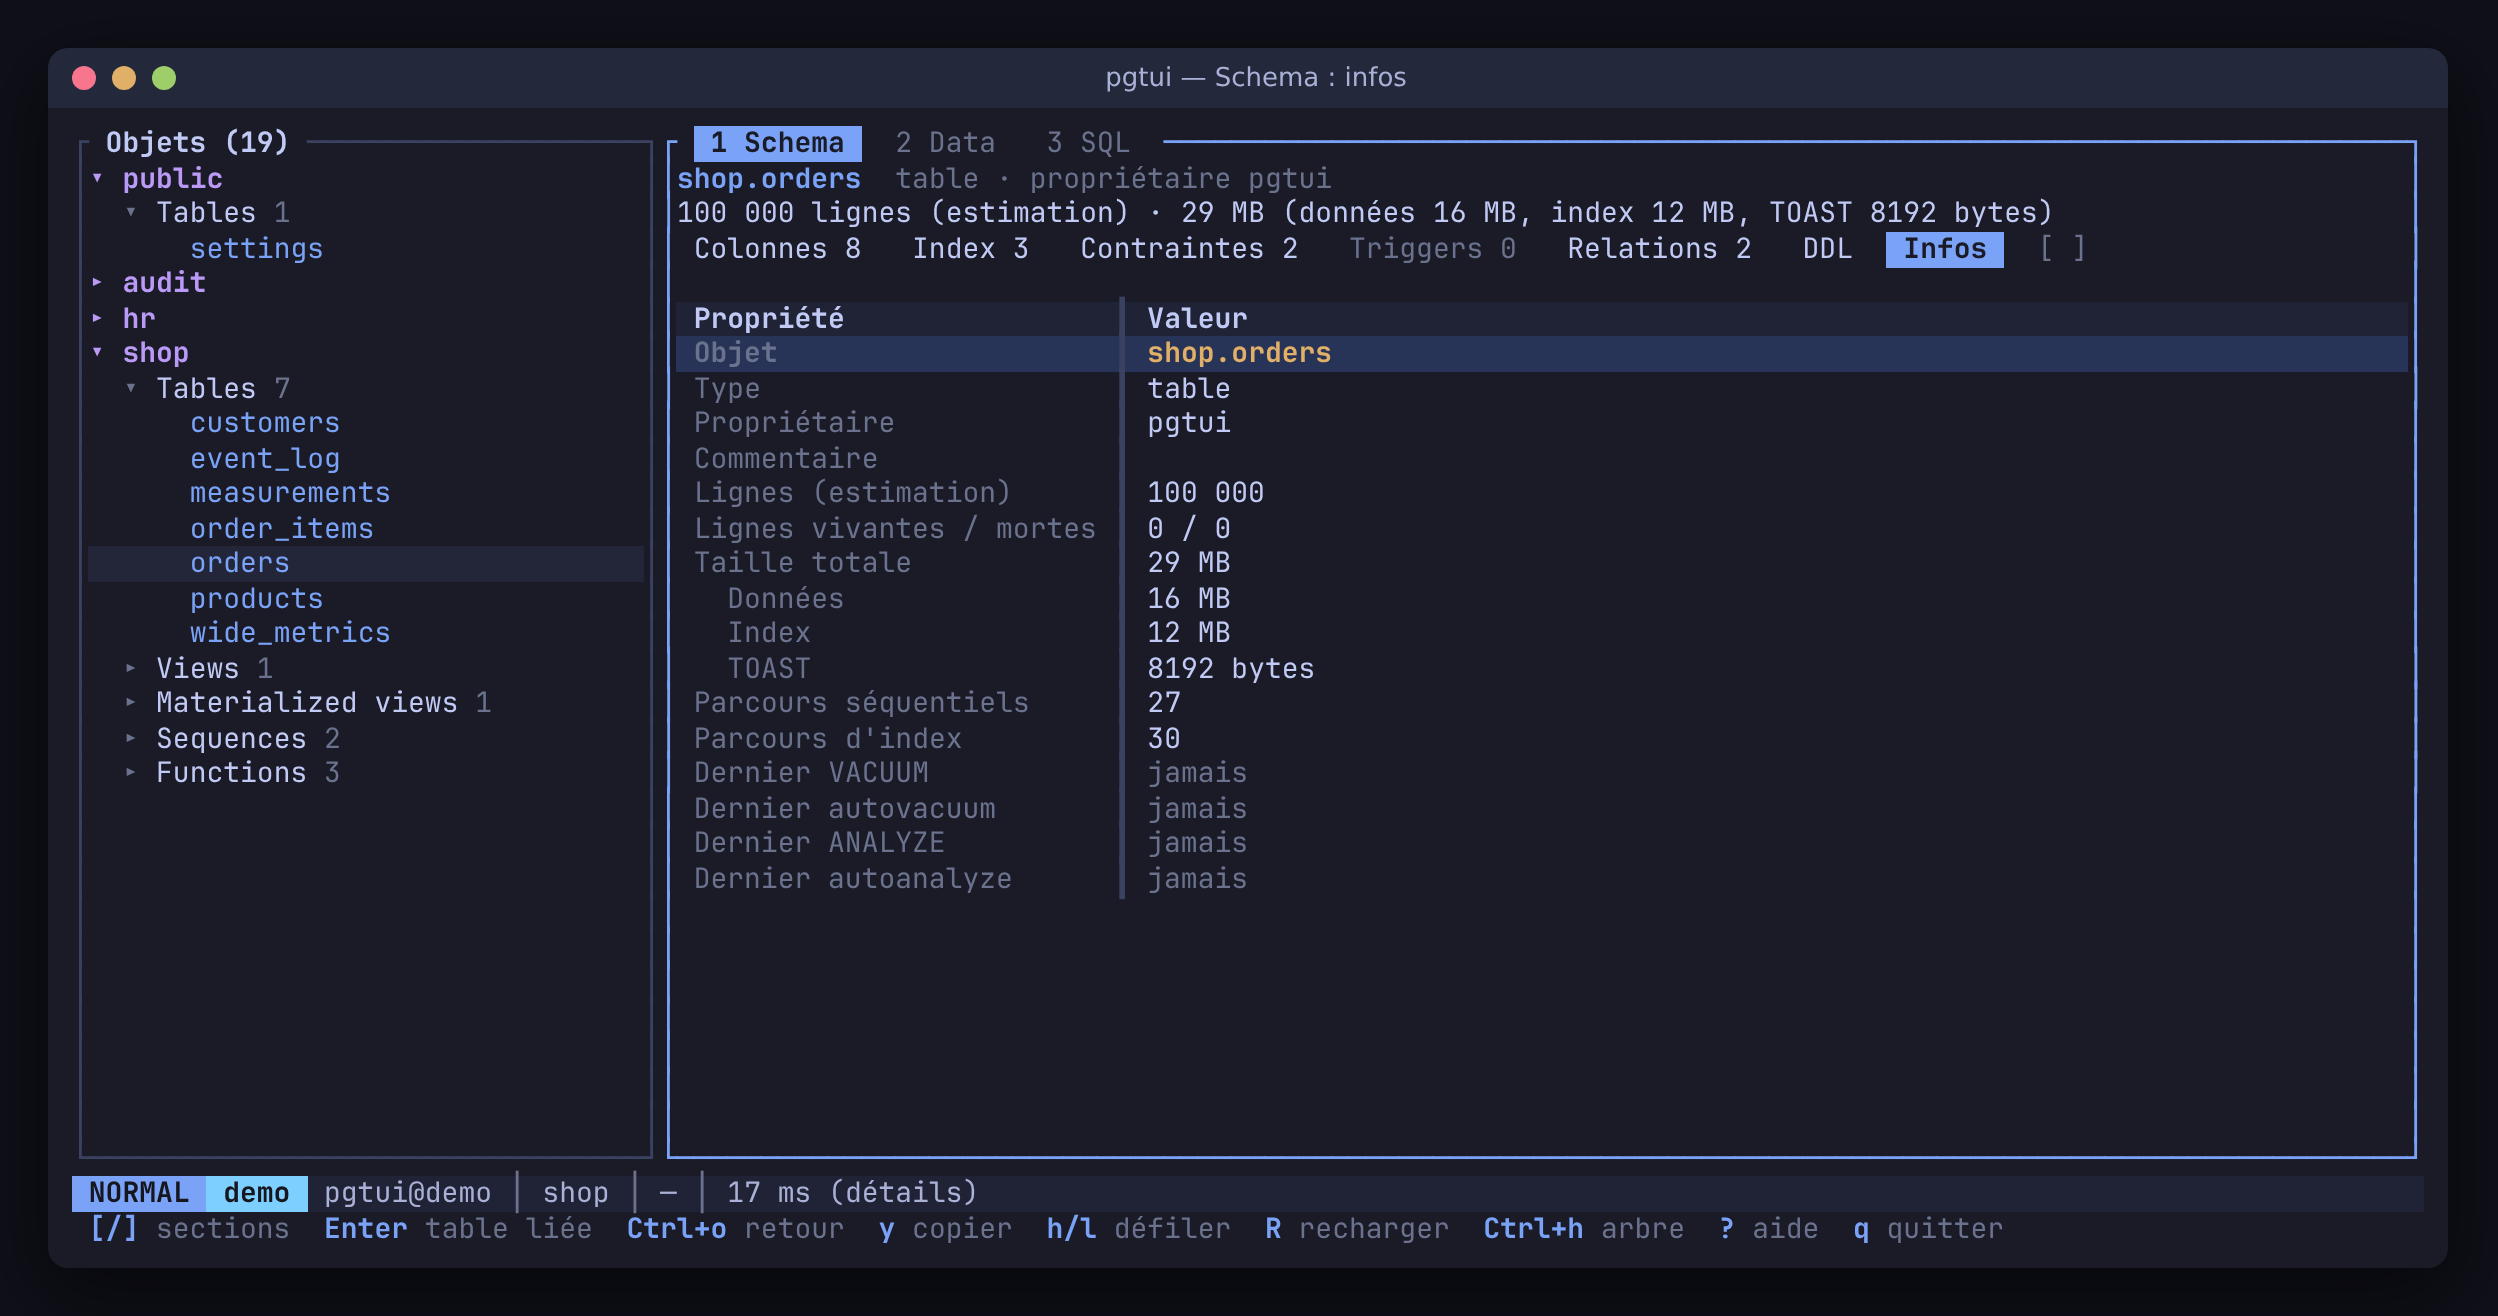
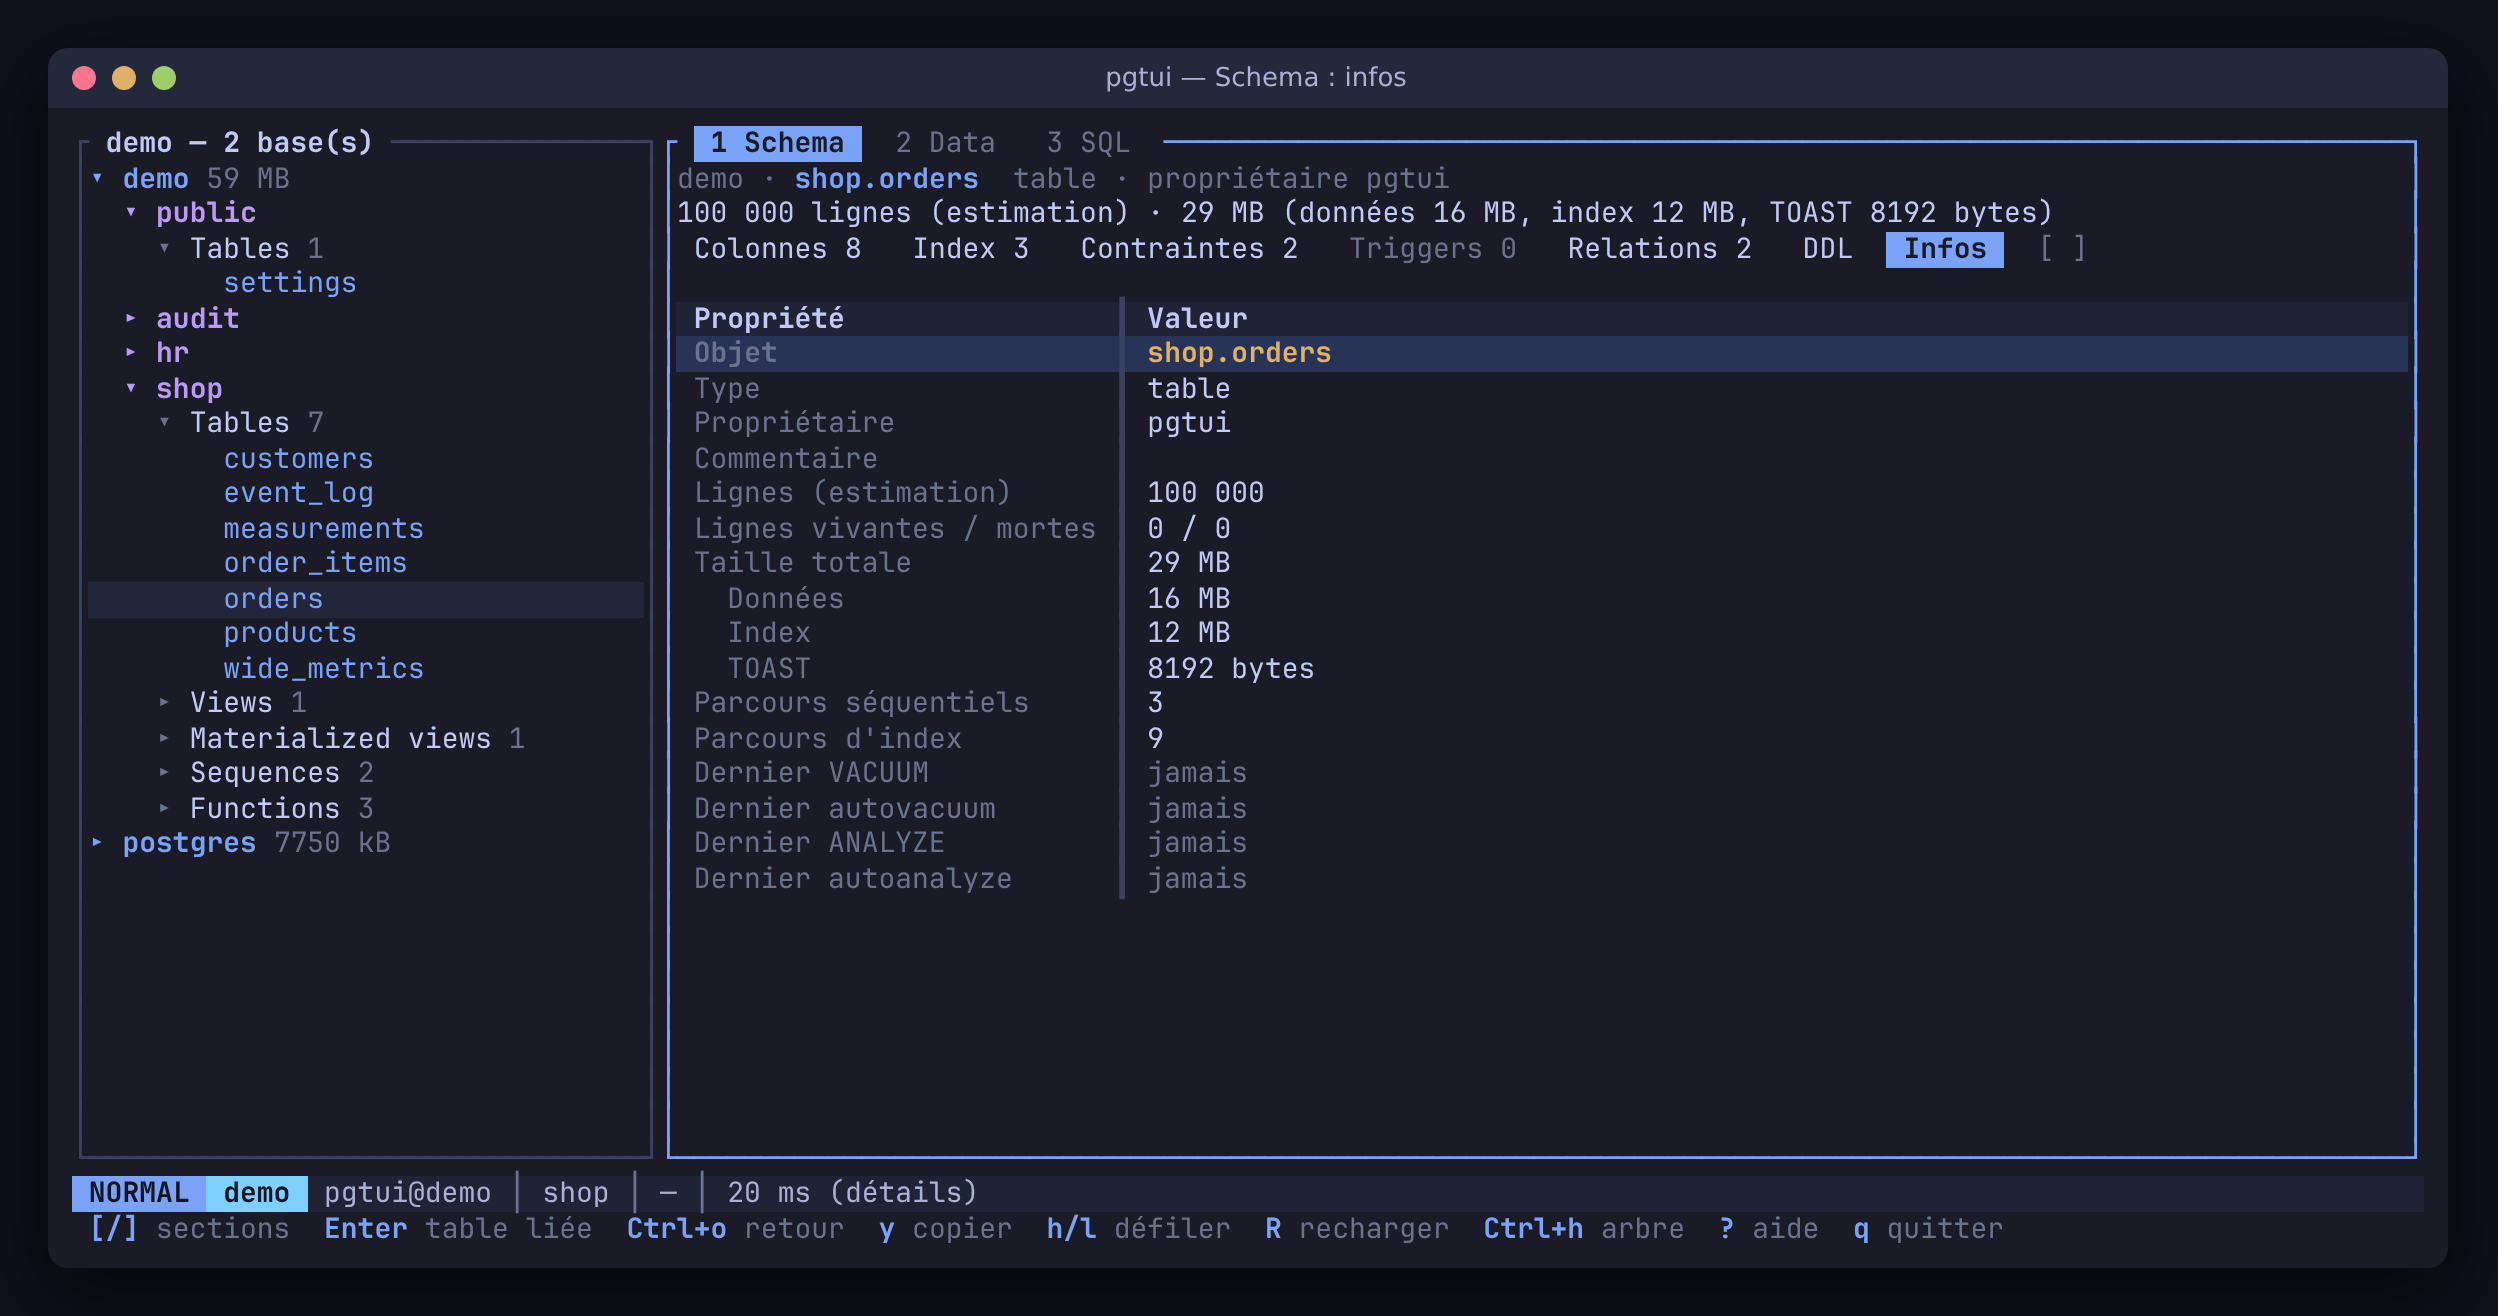
README et captures : détection des serveurs, bases multiples
Claude-Session: https://claude.ai/code/session_01LTxdicoeJ8LTgU8LYkgdiX

Changed region(s): [[0.0312, 0.2804, 0.1873, 0.6543], [0.0312, 0.0935, 0.1561, 0.2804], [0.281, 0.1246, 0.562, 0.1558]]

diff --git a/README.md b/README.md
@@ -45,6 +45,25 @@ pgtui --url postgres://pgtui:pgtui@localhost:5433/demo
 
 La base de démo (`docker/initdb/`) contient trois schémas (`shop`, `hr`, `audit`), ~350 000 lignes et tous les types que pgtui doit gérer : enum, uuid, jsonb, tableaux, inet, bytea, interval, timestamptz, table partitionnée, vue, vue matérialisée, séquence, fonction, procédure, trigger, table sans clé primaire, table de 42 colonnes, données Unicode (accents, CJK, emoji).
 
+## Détection des serveurs locaux
+
+Au démarrage, pgtui cherche les serveurs PostgreSQL de la machine : port 5432 sur `127.0.0.1` et `::1`, et sockets Unix dans `/var/run/postgresql`, `/run/postgresql` et `/tmp`. Chaque candidat reçoit le paquet d'ouverture `SSLRequest` : un serveur PostgreSQL répond `S` ou `N`, ce qui l'identifie sans s'authentifier. Rien n'est scanné sur le réseau.
+
+Les serveurs trouvés apparaissent dans le sélecteur, sous les connexions configurées. `Entrée` ouvre un formulaire **utilisateur / mot de passe / base** (base `postgres` par défaut). En cas d'erreur, le formulaire revient avec le message du serveur. Une fois connecté, pgtui propose d'ajouter le serveur à `config.toml`, **sans le mot de passe**. `R` relance la détection.
+
+```toml
+[general]
+discover = true            # false pour désactiver
+discover_ports = [5432]    # ex. [5432, 5433]
+```
+
+| ![Serveurs détectés](docs/screenshots/14-detection.png) | ![Toutes les bases](docs/screenshots/16-bases.png) |
+|---|---|
+
+## Toutes les bases du serveur
+
+L'arbre affiche à sa racine **toutes les bases** du serveur, avec leur taille (`pg_database`, hors modèles). La base de connexion est dépliée ; déplier une autre base ouvre une connexion vers elle, avec les mêmes identifiants, et charge ses schémas. Une base sans le droit `CONNECT` est marquée « accès refusé ». La barre de statut et l'en-tête des onglets indiquent la base de l'objet ouvert.
+
 ## Lancement
 
 ```
@@ -146,7 +165,8 @@ Couleurs : noms (`red`, `light-blue`, `orange`…), `#rrggbb` ou index ANSI (`20
 | | `/` | Filtre flou (`schema.table` pour qualifier) |
 | | `Esc` | Effacer le filtre |
 | | `R` | Recharger le catalogue |
-| Sélecteur | `Enter` | Se connecter |
+| Sélecteur | `Enter` | Se connecter (formulaire utilisateur / mot de passe pour un serveur détecté) |
+| | `R` | Relancer la détection des serveurs locaux |
 | Onglet Schema | `[` / `]` | Section précédente / suivante (Colonnes, Index, Contraintes, Triggers, Relations, DDL, Infos) |
 | | `j`/`k`, `gg`/`G`, `Ctrl+d`/`Ctrl+u` | Naviguer dans la section |
 | | `h`/`l` · `←`/`→`, `0` / `$` | Défiler horizontalement (colonnes, ou texte du DDL) |
@@ -188,7 +208,8 @@ src/
 │   ├── catalog.rs   modèle neutre des objets (schémas, tables, vues…)
 │   ├── schema.rs    détails neutres d'un objet (colonnes, index, contraintes, FK, stats)
 │   ├── postgres/    tokio-postgres + rustls : connexions, TLS, catalogue, détails, DDL
-│   └── worker.rs    tâche qui possède les connexions ; DbCommand → DbEvent
+│   ├── discover.rs  détection des serveurs locaux (SSLRequest)
+│   └── worker.rs    tâche qui possède les connexions (une par base, ouvertes à la demande) ; DbCommand → DbEvent
 ├── app/             état + reducer (aucune I/O) : App::update(Msg) -> Vec<Effect>
 ├── keymap/          touches → actions par contexte, séquences, surcharges
 └── ui/              rendu : table_view (réutilisable), schema_view, sql_view, tree, status_bar, help…
